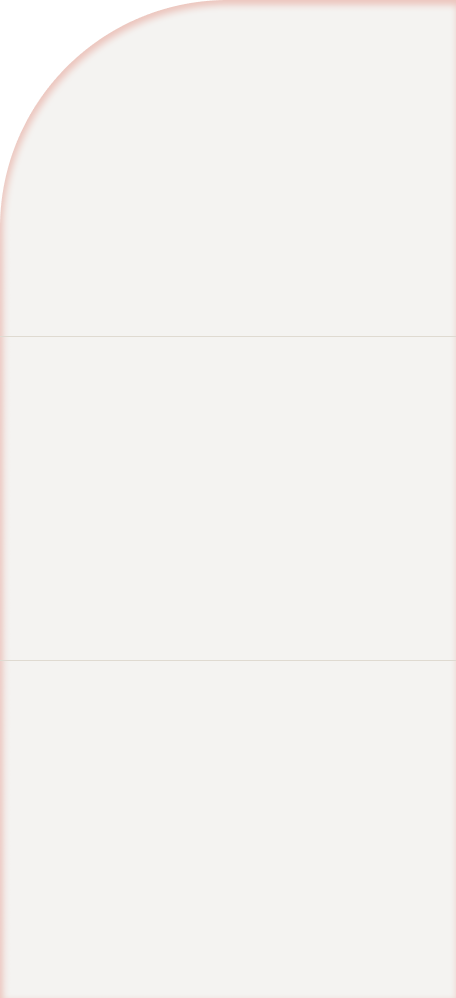
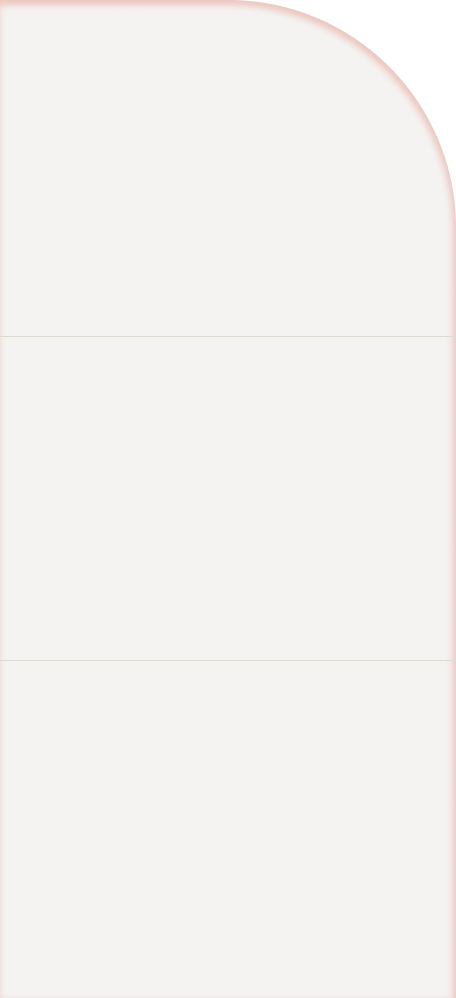
new ui changes

Changed region(s): [[0.0, 0.0, 0.4298, 0.2174], [0.5833, 0.0, 1.0, 0.2174], [0.8289, 0.0621, 0.8904, 0.0932]]

diff --git a/Build/babylon-test.js b/Build/babylon-test.js
@@ -67,7 +67,7 @@ var createScene = function () {
         var fontsizes = "63%"
 
         var mainpanel = new BABYLON.GUI.Rectangle();
-        mainpanel.width = "100%";
+        mainpanel.width = "10%";
         mainpanel.height = "100%";
         mainpanel.verticalAlignment = "Center";
         mainpanel.horizontalAlignment = "Center";
